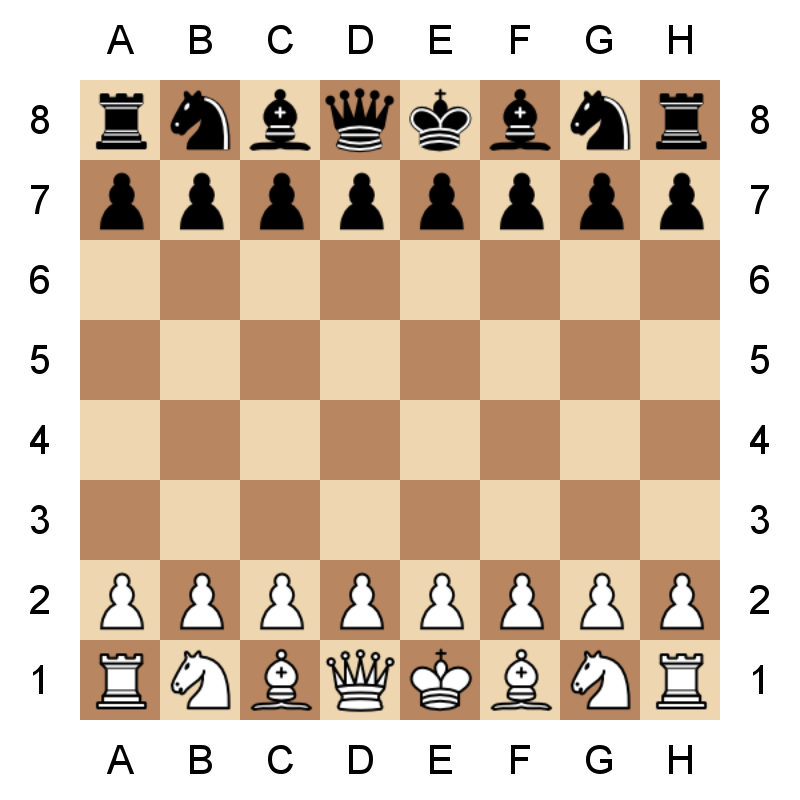
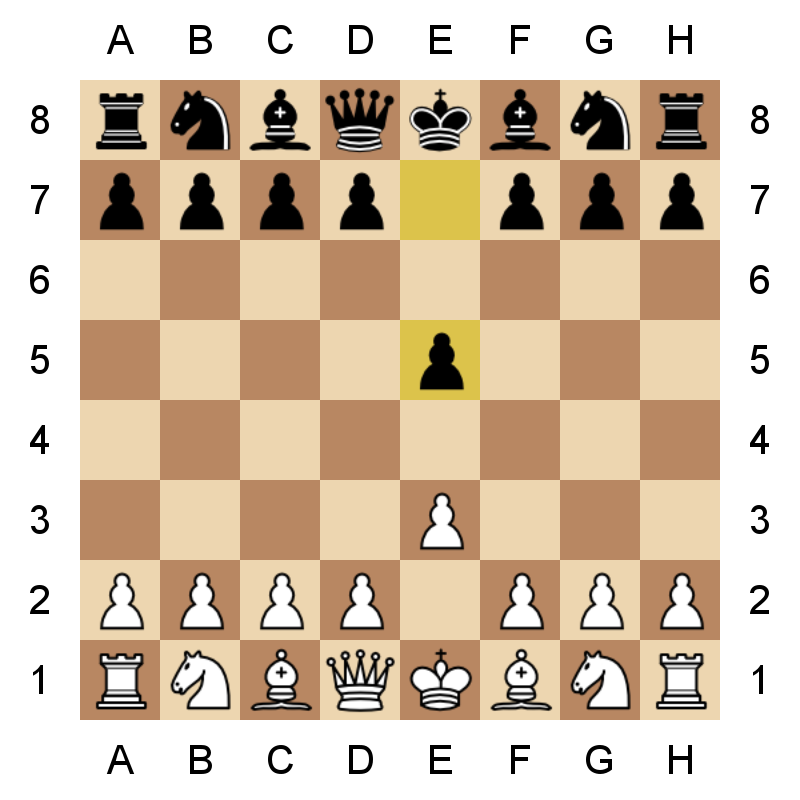
some upds

diff --git a/games/chessboard.js b/games/chessboard.js
@@ -20,7 +20,7 @@ const pieceImages = {
 
 const squareSize = 80; // Size of each square on the board
 
-async function generateChessboardImage(board, lastMove = null) {
+async function generateChessboardImage(board, lastMove = null, flip = false) {
     const canvas = createCanvas((8 + 2) * squareSize, (8 + 2) * squareSize);
     const ctx = canvas.getContext('2d');
 
@@ -30,15 +30,28 @@ async function generateChessboardImage(board, lastMove = null) {
     const highlightDarkSquareColor = '#dcc34b';
     const highlightLightSquareColor = '#f6eb72';
 
+    // Convert lastMove coordinates if flip is true
+    let lastMoveFrom = lastMove ? lastMove.from : null;
+    let lastMoveTo = lastMove ? lastMove.to : null;
+    if (flip && lastMove) {
+        lastMoveFrom = String.fromCharCode(104 - (lastMove.from.charCodeAt(0) - 97)) + (9 - parseInt(lastMove.from[1]));
+        lastMoveTo = String.fromCharCode(104 - (lastMove.to.charCodeAt(0) - 97)) + (9 - parseInt(lastMove.to[1]));
+    }
+
     // Draw the chessboard squares
     for (let y = 0; y < 8; y++) {
         for (let x = 0; x < 8; x++) {
-            // Highlight the squares of the last move
-            if (lastMove && (lastMove.from === `${String.fromCharCode(97 + x)}${8 - y}` || lastMove.to === `${String.fromCharCode(97 + x)}${8 - y}`)) {
-                ctx.fillStyle = (x + y) % 2 === 0 ? highlightLightSquareColor : highlightDarkSquareColor;
-            } else {
-                ctx.fillStyle = (x + y) % 2 === 0 ? lightSquareColor : darkSquareColor;
-            }
+            const drawX = flip ? 7 - x : x;
+            const drawY = flip ? 7 - y : y;
+            const coord = `${String.fromCharCode(97 + x)}${8 - y}`;
+            const highlight = lastMove && (coord === lastMoveFrom || coord === lastMoveTo);
+            ctx.fillStyle = highlight
+                ? (drawX + drawY) % 2 === 0
+                    ? highlightLightSquareColor
+                    : highlightDarkSquareColor
+                : (drawX + drawY) % 2 === 0
+                    ? lightSquareColor
+                    : darkSquareColor;
             ctx.fillRect((x + 1) * squareSize, (y + 1) * squareSize, squareSize, squareSize);
         }
     }
@@ -57,22 +70,17 @@ async function generateChessboardImage(board, lastMove = null) {
     ctx.textBaseline = 'middle';
 
     for (let i = 0; i < 8; i++) {
-        // Letters on the bottom
-        ctx.fillText(String.fromCharCode(65 + i), (i + 1.5) * squareSize, (9.5) * squareSize);
-
-        // Letters on the top
-        ctx.fillText(String.fromCharCode(65 + i), (i + 1.5) * squareSize, 0.5 * squareSize);
-
-        // Numbers on the left
-        ctx.fillText((8 - i).toString(), 0.5 * squareSize, (i + 1.5) * squareSize);
-
-        // Numbers on the right
-        ctx.fillText((8 - i).toString(), 9.5 * squareSize, (i + 1.5) * squareSize);
+        ctx.fillText(String.fromCharCode(65 + i), ((flip ? 7 - i : i) + 1.5) * squareSize, (9.5) * squareSize);
+        ctx.fillText(String.fromCharCode(65 + i), ((flip ? 7 - i : i) + 1.5) * squareSize, 0.5 * squareSize);
+        ctx.fillText((8 - i).toString(), 0.5 * squareSize, ((flip ? 7 - i : i) + 1.5) * squareSize);
+        ctx.fillText((8 - i).toString(), 9.5 * squareSize, ((flip ? 7 - i : i) + 1.5) * squareSize);
     }
 
     // Draw the pieces on the board
     for (let y = 0; y < 8; y++) {
         for (let x = 0; x < 8; x++) {
+            const drawX = flip ? 7 - x : x;
+            const drawY = flip ? 7 - y : y;
             const piece = board[y][x];
             let pieceKey;
 
@@ -86,7 +94,7 @@ async function generateChessboardImage(board, lastMove = null) {
                 const imagePath = path.resolve(__dirname, '../pieces', pieceImages[pieceKey]);
                 try {
                     const image = await loadImage(imagePath);
-                    ctx.drawImage(image, (x + 1) * squareSize, (y + 1) * squareSize, squareSize, squareSize);
+                    ctx.drawImage(image, (drawX + 1) * squareSize, (drawY + 1) * squareSize, squareSize, squareSize);
                 } catch (error) {
                     console.error(`Error loading image for piece ${pieceKey} at ${imagePath}:`, error);
                 }
@@ -98,4 +106,4 @@ async function generateChessboardImage(board, lastMove = null) {
     fs.writeFileSync('./chessboard.png', buffer);
 }
 
-module.exports = { generateChessboardImage };
+module.exports = generateChessboardImage;

diff --git a/index.js b/index.js
@@ -16,7 +16,6 @@ const client = new Discord.Client({
     ]
 });
 
-const playerGames = new Map();
 const promotionChoices = new Map();
 
 client.once('ready', () => {
@@ -95,7 +94,7 @@ client.on('messageCreate', async message => {
             return message.channel.send('You cannot play chess with yourself.');
         }
 
-        if (playerGames.has(message.author.id) || playerGames.has(mentionedUser.id)) {
+        if (chessGame.playerGames.has(message.author.id) || chessGame.playerGames.has(mentionedUser.id)) {
             return message.channel.send('One or both players are already in a game.');
         }
 
@@ -113,9 +112,9 @@ client.on('messageCreate', async message => {
         if (!from || !to) {
             return message.channel.send('Please provide a move in the format: !move <from> <to>. Example: !move e2 e4');
         }
-        const gameKey = playerGames.get(message.author.id);
+        const gameKey = chessGame.playerGames.get(message.author.id);
         console.log(`!move command with gameKey: ${gameKey}`);
-        console.log(`Player games map: ${JSON.stringify([...playerGames])}`);
+        console.log(`Player games map: ${JSON.stringify([...chessGame.playerGames])}`);
         if (gameKey) {
             await chessGame.makeMove(message, `${from}-${to}`, gameKey);
         } else {
@@ -133,12 +132,12 @@ client.on('messageCreate', async message => {
 client.on('messageCreate', async message => {
     if (message.author.bot) return;
 
-    console.log(`Player games map before message handling: ${JSON.stringify([...playerGames])}`);
+    console.log(`Player games map before message handling: ${JSON.stringify([...chessGame.playerGames])}`);
     const args = message.content.trim().split(/ +/g);
     const command = args[0].toLowerCase();
 
     if (command === '!promote') {
-        const gameKey = playerGames.get(message.author.id);
+        const gameKey = chessGame.playerGames.get(message.author.id);
         console.log(`!promote command with gameKey: ${gameKey}`);
         if (gameKey && promotionChoices.has(gameKey)) {
             const choice = args[1].toLowerCase();
@@ -181,7 +180,7 @@ class GameSession {
         } else if (this.gameType === 'mathgame') {
             await startMathGame(this.message, this.participants);
         } else if (this.gameType === 'hangman') {
-            await starthangMan(this.message, this.participants);
+            await startHangMan(this.message, this.participants);
         } else if (this.gameType === 'chessgame') {
             await startChessGame(this.message, this.participants);
         } else if (this.gameType === 'blackjack') {
@@ -211,7 +210,7 @@ class GameSession {
         } else if (this.gameType === 'mathgame') {
             mathGame.endMathGame(this.message);
         } else if (this.gameType === 'hangman') {
-            hangMan.endhangMan();
+            hangMan.endHangMan();
         } else if (this.gameType === 'chessgame') {
             chessGame.endChessGame(this.message, this.participants);
         } else if (this.gameType === 'blackjack') {
@@ -280,9 +279,9 @@ async function startMathGame(message, participants) {
     currentGame = null; // Game ended, reset currentGame
 }
 
-async function starthangMan(message, participants) {
+async function startHangMan(message, participants) {
     message.channel.send(`Starting hangman game with: ${Array.from(participants.values()).join(', ')}`);
-    await hangMan.starthangMan(message, participants);
+    await hangMan.startHangMan(message, participants);
     currentGame = null; // Game ended, reset currentGame
 }
 

diff --git a/games/chessgame.js b/games/chessgame.js
@@ -1,5 +1,5 @@
 const { Chess } = require('chess.js');
-const { generateChessboardImage } = require('./chessboard.js');
+const generateChessboardImage = require('./chessboard.js');
 
 const activeGames = new Map();
 const playerGames = new Map();
@@ -31,9 +31,9 @@ async function startChessGame(message, participants) {
     message.channel.send(`Chess game started between <@${authorId}> (white) and <@${opponentId}> (black).`);
     await sendChessboardImage(message.channel, chess.board());
 }
-async function sendChessboardImage(channel, board, lastMove = null) {
+async function sendChessboardImage(channel, board, lastMove = null, flip = false) {
     try {
-        await generateChessboardImage(board, lastMove);
+        await generateChessboardImage(board, lastMove, flip);
         await channel.send({ files: ['./chessboard.png'] });
     } catch (error) {
         console.error('Error generating or sending chessboard image:', error);
@@ -104,7 +104,8 @@ async function makeMove(message, move, promotion = 'q') {
             await previousImage.delete();
         }
 
-        await sendChessboardImage(message.channel, chess.board(), result);
+        const flip = chess.turn() === 'b'; // Flip the board if it's Black's turn
+        await sendChessboardImage(message.channel, chess.board(), result, flip);
 
         if (chess.isCheckmate()) {
             message.channel.send(`Checkmate! <@${currentPlayerId}> wins.`);
@@ -146,6 +147,7 @@ async function makeMove(message, move, promotion = 'q') {
         }
     }
 }
+
 
 function endChessGameByGameKey(gameKey) {
     console.log(`Ending chess game with gameKey: ${gameKey}`);
